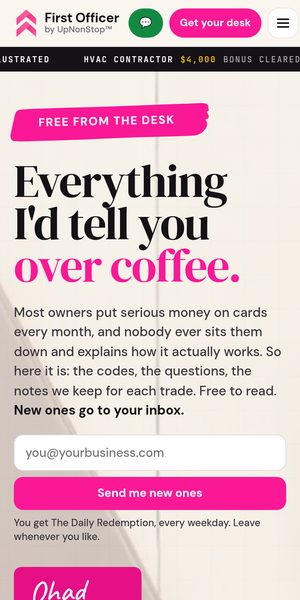
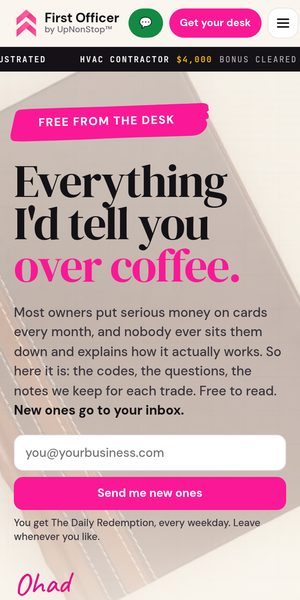
3h: visible hero photo rotation (1.4s crossfade, ~5s hold, slow scale, per-photo crops, lighter tint), sign-off sits on the page with no tile

diff --git a/rebuild-v4/ffd-c-opt-3h.html b/rebuild-v4/ffd-c-opt-3h.html
@@ -866,11 +866,15 @@ html.dir-c.o3h #band .cap-msg{margin:8px 0 0;font-size:13px;font-weight:600;colo
 @media(max-width:640px){html.dir-c.o3h .desk .eyebrow{font-size:15px;line-height:18px;letter-spacing:.08em;padding:16px 46px 17px 38px;margin:10px 0 22px -6px}}
 /* hero photos: the Freebies hero's own rotating set (v3 #fftop), slow crossfade, low opacity, cream and pink tint */
 html.dir-c.o3h .desk .pop-hero>.phx{display:block;position:absolute;top:-28px;bottom:0;left:50%;width:100vw;transform:translateX(-50%);z-index:0;background:transparent}
-html.dir-c.o3h .desk .pop-hero>.phx img.on{opacity:.34}
-html.dir-c.o3h .desk .pop-hero>.phx::after{background:linear-gradient(90deg,rgba(250,246,238,.80) 0%,rgba(250,246,238,.62) 38%,rgba(255,227,241,.40) 70%,rgba(255,227,241,.30) 100%),linear-gradient(180deg,rgba(250,246,238,.85) 0,rgba(250,246,238,0) 90px,rgba(250,246,238,0) calc(100% - 120px),#FAF6EE 100%)}
+html.dir-c.o3h .desk .pop-hero>.phx img{transform:scale(1);transition:opacity 1.4s ease-in-out,transform 8s linear;will-change:opacity,transform}
+html.dir-c.o3h .desk .pop-hero>.phx img.on{opacity:.52;transform:scale(1.07)}
+html.dir-c.o3h .desk .pop-hero>.phx img[src$='i-desk.webp']{object-position:62% 50%}html.dir-c.o3h .desk .pop-hero>.phx img[src$='e-coffee.webp']{object-position:50% 38%}html.dir-c.o3h .desk .pop-hero>.phx img[src$='e-laptop.webp']{object-position:55% 32%}html.dir-c.o3h .desk .pop-hero>.phx img[src$='e-tablet.webp']{object-position:70% 40%}
+html.dir-c.o3h .desk .pop-hero>.phx::after{background:linear-gradient(90deg,rgba(250,246,238,.62) 0%,rgba(250,246,238,.46) 38%,rgba(255,227,241,.28) 70%,rgba(255,227,241,.20) 100%),linear-gradient(180deg,rgba(250,246,238,.7) 0,rgba(250,246,238,0) 80px,rgba(250,246,238,0) calc(100% - 120px),#FAF6EE 100%)}
 html.dir-c.o3h .desk .pop-hero>.dhero,html.dir-c.o3h .desk .pop-hero>.deskline{position:relative;z-index:1}
-@media(max-width:760px){html.dir-c.o3h .desk .pop-hero>.phx img.on{opacity:.46}html.dir-c.o3h .desk .pop-hero>.phx::after{background:linear-gradient(180deg,rgba(250,246,238,.56) 0%,rgba(250,246,238,.44) 45%,rgba(255,227,241,.38) 100%),linear-gradient(180deg,rgba(250,246,238,0) calc(100% - 100px),#FAF6EE 100%)}}
-@media(prefers-reduced-motion:reduce){html.dir-c.o3h .desk .pop-hero>.phx img{transition:none}}
+@media(max-width:760px){html.dir-c.o3h .desk .pop-hero>.phx{bottom:auto;height:860px}html.dir-c.o3h .desk .pop-hero>.phx img.on{opacity:.56}html.dir-c.o3h .desk .pop-hero>.phx img[src$='i-desk.webp']{object-position:30% 50%}html.dir-c.o3h .desk .pop-hero>.phx img[src$='e-coffee.webp']{object-position:40% 30%}html.dir-c.o3h .desk .pop-hero>.phx img[src$='e-laptop.webp']{object-position:54% 30%}html.dir-c.o3h .desk .pop-hero>.phx img[src$='e-tablet.webp']{object-position:68% 40%}html.dir-c.o3h .desk .pop-hero>.phx::after{background:linear-gradient(180deg,rgba(250,246,238,.55) 0%,rgba(250,246,238,.42) 40%,rgba(250,246,238,.5) 70%,#FAF6EE 100%)}}
+@media(prefers-reduced-motion:reduce){html.dir-c.o3h .desk .pop-hero>.phx img{transition:none;transform:none}html.dir-c.o3h .desk .pop-hero>.phx img.on{transform:none}}
+/* the sign-off sits on the page: script name in pink, role in ink. No tile, no mark */
+html.dir-c.o3h .desk .sig{display:block!important;background:none!important;box-shadow:none!important;-webkit-mask:none!important;mask:none!important;clip-path:none!important;border:0!important;border-radius:0!important;padding:0!important;margin-top:26px}html.dir-c.o3h .desk .sig::before,html.dir-c.o3h .desk .sig::after{display:none!important}html.dir-c.o3h .desk .sig>div{background:none!important;padding:0!important;display:flex;flex-direction:column;gap:2px}html.dir-c.o3h .desk .sig .sign{color:#E60F86!important}html.dir-c.o3h .desk .sig .role{color:#141216!important;opacity:1}
 html.dir-c.o3h #band{position:relative;isolation:isolate}html.dir-c.o3h #band>.phx{display:block}
 /* Golden Nugget imagery: the desk's faceted nugget, flat */
 html.dir-c.o3h .desk .pv1 .nugart{position:absolute!important;right:calc(var(--pw,46px) + 12px);bottom:14px;width:54px;height:54px;z-index:1;pointer-events:none}
@@ -888,7 +892,7 @@ html.dir-c.o3h .desk #nug-cards .nugart{display:none}html.dir-c.o3h .desk #nug-c
 </div></header>
 <div class="sheet"><a href="product.html">Product</a><a href="pricing.html">Pricing</a><a href="how.html">How</a><a href="calculator.html">Calculator</a><a href="about.html">About</a><a class="fz" href="free-from-the-desk.html"><span><svg class="fzmk" viewBox="0 0 100 24" preserveAspectRatio="none" aria-hidden="true" focusable="false"><path pathLength="1" d="M4 15.5C18 13.2 31 14.6 46 12.9S77 12.2 96 10.6"/><path class="b" pathLength="1" d="M6 11.4C24 10.8 40 12.1 58 10.4S84 9.6 93 8.9"/></svg>Freebies</span></a><a href="field-notes.html">Field Notes</a><a href="trust.html">Trust</a><a href="industries.html">Industries</a><a class="btn wa" href="https://wa.me/16199404040?text=First%20Officer">💬 Text Your First Officer</a><a class="btn" href="book.html">Get your desk</a></div>
 <div class="fotick" aria-label="Recent desk captures"><div class="fotick-in"><span class="tk"><span class="tk-dot"></span><b>A MONTH AT THE DESK, ILLUSTRATED</b></span><span class="tk"><b>HVAC contractor</b> <i>$4,000</i> <span>BONUS CLEARED</span></span><span class="tk"><b>E-commerce owner</b> <i>$6,940</i> <span>TRANSFER BONUS CAUGHT</span></span><span class="tk"><b>Real estate broker</b> <i>$2,300</i> <span>HOTEL NIGHTS ON POINTS</span></span><span class="tk"><b>Trucking operator</b> <i>$1,760</i> <span>FLEET FUEL REROUTED</span></span><span class="tk"><b>Agency founder</b> <i>$1,240</i> <span>AD SPEND MOVED TO 3X</span></span><span class="tk"><b>IT / MSP owner</b> <i>$1,130</i> <span>SAAS STACK RESTACKED</span></span><span class="tk"><b>Law firm partner</b> <i>$980</i> <span>RETENTION OFFER LANDED</span></span><span class="tk"><b>Restaurant group</b> <i>$890</i> <span>AMBER GATE, WORKING</span></span><span class="tk"><b>Dental practice</b> <i>$610</i> <span>WHOLESALE FLAG CLEARED</span></span><span class="tk"><b>Landscaper</b> <i class="no">HONEST NO</i> <span>UNDER THE BAR, TOLD FREE</span></span><span class="tk"><span class="tk-dot"></span><b>A MONTH AT THE DESK, ILLUSTRATED</b></span><span class="tk"><b>HVAC contractor</b> <i>$4,000</i> <span>BONUS CLEARED</span></span><span class="tk"><b>E-commerce owner</b> <i>$6,940</i> <span>TRANSFER BONUS CAUGHT</span></span><span class="tk"><b>Real estate broker</b> <i>$2,300</i> <span>HOTEL NIGHTS ON POINTS</span></span><span class="tk"><b>Trucking operator</b> <i>$1,760</i> <span>FLEET FUEL REROUTED</span></span><span class="tk"><b>Agency founder</b> <i>$1,240</i> <span>AD SPEND MOVED TO 3X</span></span><span class="tk"><b>IT / MSP owner</b> <i>$1,130</i> <span>SAAS STACK RESTACKED</span></span><span class="tk"><b>Law firm partner</b> <i>$980</i> <span>RETENTION OFFER LANDED</span></span><span class="tk"><b>Restaurant group</b> <i>$890</i> <span>AMBER GATE, WORKING</span></span><span class="tk"><b>Dental practice</b> <i>$610</i> <span>WHOLESALE FLAG CLEARED</span></span><span class="tk"><b>Landscaper</b> <i class="no">HONEST NO</i> <span>UNDER THE BAR, TOLD FREE</span></span></div></div>
-<main id="main"><div class="desk" id="desk-top"><div class="pop-hero bleed"><div class="phx" data-iv="6500" data-ph="img/ph/i-desk.webp,img/ph/e-coffee.webp,img/ph/e-laptop.webp,img/ph/e-tablet.webp" aria-hidden="true"></div><section class="dhero">
+<main id="main"><div class="desk" id="desk-top"><div class="pop-hero bleed"><div class="phx" data-iv="6400" data-ph="img/ph/i-desk.webp,img/ph/e-coffee.webp,img/ph/e-laptop.webp,img/ph/e-tablet.webp" aria-hidden="true"></div><section class="dhero">
 <div class="dh-l">
 <div class="eyebrow">Free From the Desk</div>
 <h1>Everything I'd tell you <em>over coffee.</em></h1>

diff --git a/rebuild-v4/_build/ffd_c_opts.py b/rebuild-v4/_build/ffd_c_opts.py
@@ -932,11 +932,15 @@ html.dir-c.o3h #band .cap-msg{{margin:8px 0 0;font-size:13px;font-weight:600;col
 @media(max-width:640px){{§ .eyebrow{{font-size:15px;line-height:18px;letter-spacing:.08em;padding:16px 46px 17px 38px;margin:10px 0 22px -6px}}}}
 /* hero photos: the Freebies hero's own rotating set (v3 #fftop), slow crossfade, low opacity, cream and pink tint */
 § .pop-hero>.phx{{display:block;position:absolute;top:-28px;bottom:0;left:50%;width:100vw;transform:translateX(-50%);z-index:0;background:transparent}}
-§ .pop-hero>.phx img.on{{opacity:.34}}
-§ .pop-hero>.phx::after{{background:linear-gradient(90deg,rgba(250,246,238,.80) 0%,rgba(250,246,238,.62) 38%,rgba(255,227,241,.40) 70%,rgba(255,227,241,.30) 100%),linear-gradient(180deg,rgba(250,246,238,.85) 0,rgba(250,246,238,0) 90px,rgba(250,246,238,0) calc(100% - 120px),{BCR} 100%)}}
+§ .pop-hero>.phx img{{transform:scale(1);transition:opacity 1.4s ease-in-out,transform 8s linear;will-change:opacity,transform}}
+§ .pop-hero>.phx img.on{{opacity:.52;transform:scale(1.07)}}
+§ .pop-hero>.phx img[src$='i-desk.webp']{{object-position:62% 50%}}§ .pop-hero>.phx img[src$='e-coffee.webp']{{object-position:50% 38%}}§ .pop-hero>.phx img[src$='e-laptop.webp']{{object-position:55% 32%}}§ .pop-hero>.phx img[src$='e-tablet.webp']{{object-position:70% 40%}}
+§ .pop-hero>.phx::after{{background:linear-gradient(90deg,rgba(250,246,238,.62) 0%,rgba(250,246,238,.46) 38%,rgba(255,227,241,.28) 70%,rgba(255,227,241,.20) 100%),linear-gradient(180deg,rgba(250,246,238,.7) 0,rgba(250,246,238,0) 80px,rgba(250,246,238,0) calc(100% - 120px),{BCR} 100%)}}
 § .pop-hero>.dhero,§ .pop-hero>.deskline{{position:relative;z-index:1}}
-@media(max-width:760px){{§ .pop-hero>.phx img.on{{opacity:.46}}§ .pop-hero>.phx::after{{background:linear-gradient(180deg,rgba(250,246,238,.56) 0%,rgba(250,246,238,.44) 45%,rgba(255,227,241,.38) 100%),linear-gradient(180deg,rgba(250,246,238,0) calc(100% - 100px),{BCR} 100%)}}}}
-@media(prefers-reduced-motion:reduce){{§ .pop-hero>.phx img{{transition:none}}}}
+@media(max-width:760px){{§ .pop-hero>.phx{{bottom:auto;height:860px}}§ .pop-hero>.phx img.on{{opacity:.56}}§ .pop-hero>.phx img[src$='i-desk.webp']{{object-position:30% 50%}}§ .pop-hero>.phx img[src$='e-coffee.webp']{{object-position:40% 30%}}§ .pop-hero>.phx img[src$='e-laptop.webp']{{object-position:54% 30%}}§ .pop-hero>.phx img[src$='e-tablet.webp']{{object-position:68% 40%}}§ .pop-hero>.phx::after{{background:linear-gradient(180deg,rgba(250,246,238,.55) 0%,rgba(250,246,238,.42) 40%,rgba(250,246,238,.5) 70%,{BCR} 100%)}}}}
+@media(prefers-reduced-motion:reduce){{§ .pop-hero>.phx img{{transition:none;transform:none}}§ .pop-hero>.phx img.on{{transform:none}}}}
+/* the sign-off sits on the page: script name in pink, role in ink. No tile, no mark */
+§ .sig{{display:block!important;background:none!important;box-shadow:none!important;-webkit-mask:none!important;mask:none!important;clip-path:none!important;border:0!important;border-radius:0!important;padding:0!important;margin-top:26px}}§ .sig::before,§ .sig::after{{display:none!important}}§ .sig>div{{background:none!important;padding:0!important;display:flex;flex-direction:column;gap:2px}}§ .sig .sign{{color:{BP}!important}}§ .sig .role{{color:{BINK}!important;opacity:1}}
 html.dir-c.o3h #band{{position:relative;isolation:isolate}}html.dir-c.o3h #band>.phx{{display:block}}
 /* Golden Nugget imagery: the desk's faceted nugget, flat */
 § .pv1 .nugart{{position:absolute!important;right:calc(var(--pw,46px) + 12px);bottom:14px;width:54px;height:54px;z-index:1;pointer-events:none}}

diff --git a/rebuild-v4/_build/desk_clean.py b/rebuild-v4/_build/desk_clean.py
@@ -221,7 +221,7 @@ def nochev(s):
 # rotating hero photos: the same set and timing as the Freebies hero on rebuild-v3 (section#fftop .phx);
 # site.js crossfades them (2.4s), pauses off-screen and stays still under prefers-reduced-motion.
 HERO_PH = ['i-desk', 'e-coffee', 'e-laptop', 'e-tablet']
-HERO_IV = 6500
+HERO_IV = 6400  # ~5s hold + 1.4s fade
 
 
 def hero_photos(s):
